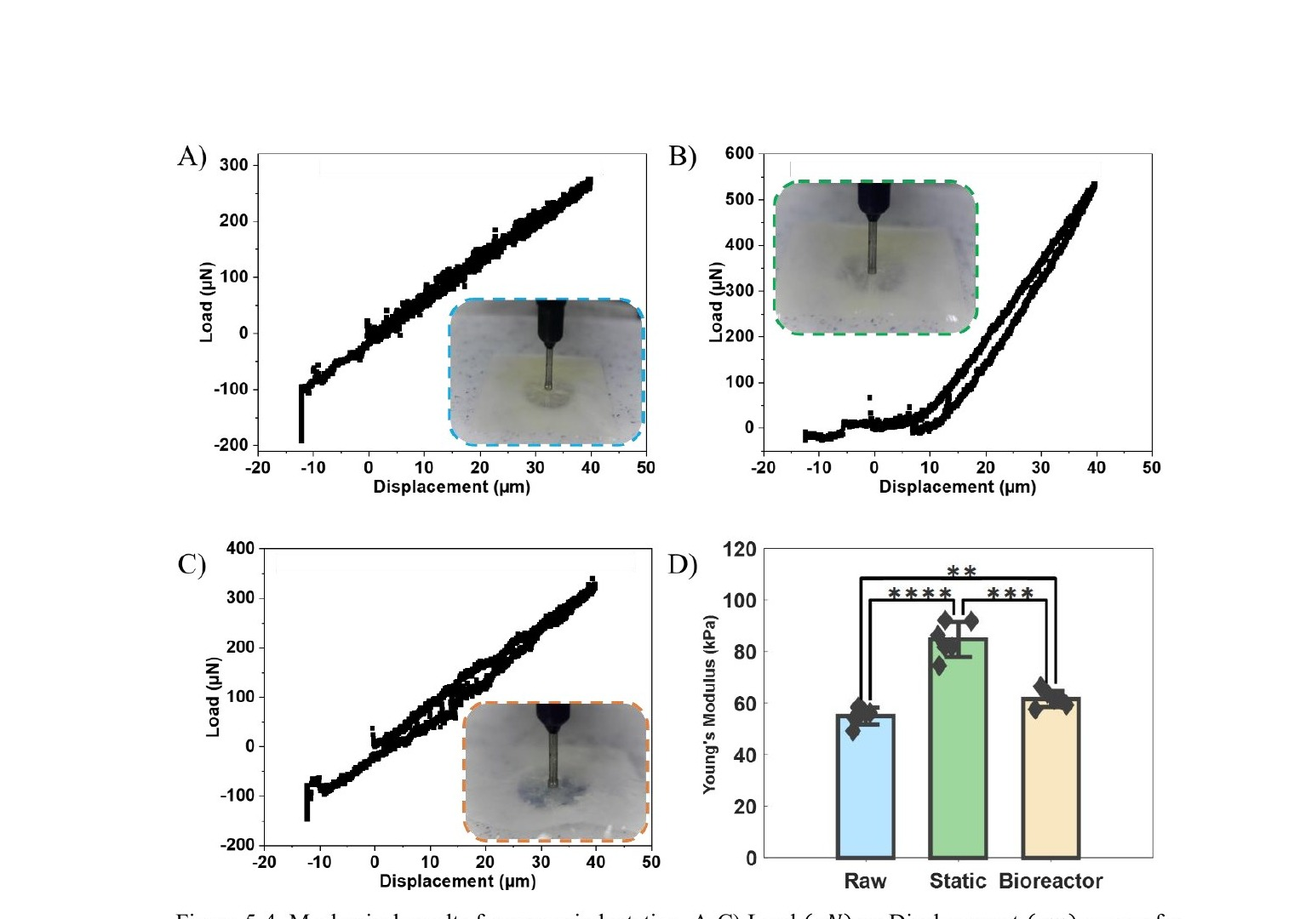
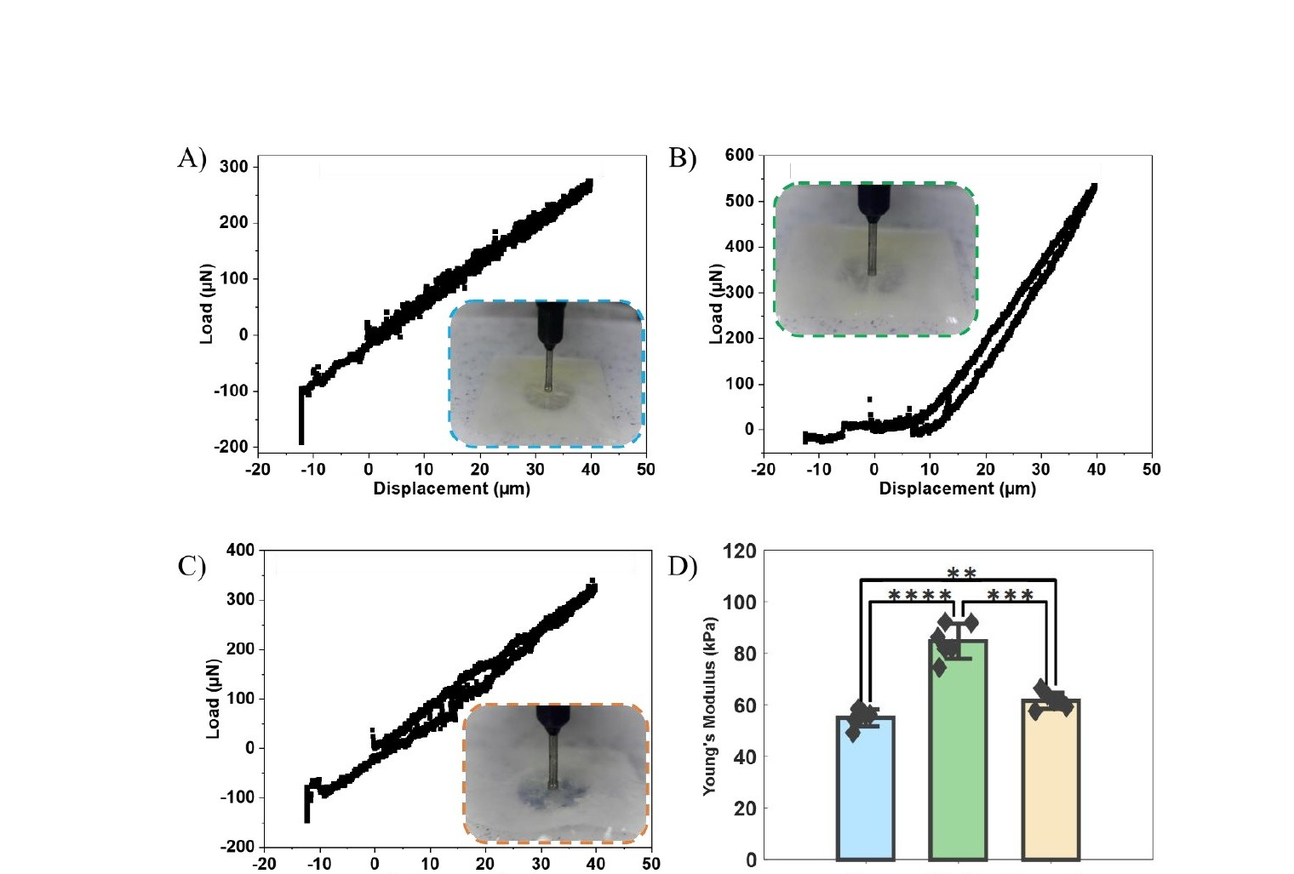
Dissertation: precise figure recrop + equations section + KaTeX
FIGURE CROPS — all 16 figures recropped with exact pixel boundaries:
  fig2_1: right-column inline only (450,428,1090,870) — body text excluded
  fig2_2: stops at row 748 before caption whitespace
  fig2_3: stops at row 578 before caption
  fig4_1: stops at row 1022 before caption
  fig4_3: stops at row 1272 before caption text (no longer included in img)
  fig5_2: starts at row 138 (eliminates top whitespace), stops at row 1018
  fig5_3: stops at row 1012 before caption
  fig5_4: stops at row 1075 before caption
  fig6_1: stops at row 950 before caption (no longer included in img)
  fig6_2: stops at row 1248 before caption (no longer included in img)
  fig7_1: starts at row 188 (after body text), stops at row 1172 before caption
  fig7_2: stops at row 1748 before caption
  fig7_3: stops at row 1658 before caption and body text
  fig7_4: stops at row 1650 before caption (no longer in img)
  fig7_5: stops at row 1992 before caption and body text
  fig7_6: stops at row 1048 before caption and body text

HTML OVERHAUL:
  Stripped all 16 existing fig-row blocks, then re-injected fresh ones
  at correct positions with matching captions. Eliminates duplicate
  figures (5-1/5-2/5-3/6-1/6-2) that appeared at page bottom from
  previous failed insertion attempts.

NEW: Equations section (id='equations') with KaTeX rendering:
  - WSS: τ_w = μ(γ̇)·du/dy
  - TAWSS: (1/T)∫|τ_w|dt
  - OSI: 0.5·(1 − |∫τdt| / ∫|τ|dt)
[…]

diff --git a/dissertation.html b/dissertation.html
@@ -184,6 +184,10 @@
  .chapters-nav { grid-template-columns: 1fr 1fr; }
  }
  </style>
+  <link rel="stylesheet" href="https://cdnjs.cloudflare.com/ajax/libs/KaTeX/0.16.9/katex.min.css">
+  <script defer src="https://cdnjs.cloudflare.com/ajax/libs/KaTeX/0.16.9/katex.min.js"></script>
+  <script defer src="https://cdnjs.cloudflare.com/ajax/libs/KaTeX/0.16.9/contrib/auto-render.min.js"
+    onload="renderMathInElement(document.body,{delimiters:[{left:'$$',right:'$$',display:true},{left:'$',right:'$',display:false}]})"></script>
 </head>
 <body>
 
@@ -301,24 +305,25 @@
  CAVD affects <strong>12.6 million people globally</strong> (2017) and prevalence is expected to double over the next 50 years. No pharmacological treatment exists — the only definitive therapy is <strong>surgical aortic valve replacement (SAVR)</strong> or, increasingly, <strong>transcatheter AV replacement (TAVR)</strong>. TAVR has surpassed SAVR as the preferred approach since it is minimally invasive, requires no cardiopulmonary bypass, and patients are often discharged the same day. However, both approaches intervene only after disease has progressed to a symptomatic, surgically operable stage.
  </p>
 
+
     <div class="fig-row cols-2">
       <div class="fig-item">
-        <img src="src/Dissertation/fig2_1_circulation.jpg" alt="Human blood circulation — systemic and pulmonary circuits" loading="lazy">
-        <div class="fig-caption"><strong>Figure 2-1.</strong> Human blood circulation diagram showing the heart and both the systemic and pulmonary circuits. The aortic valve is located at the exit of the left ventricle, controlling outflow into the aorta.</div>
+        <img src="src/Dissertation/fig2_1_circulation.jpg" alt="Fig 2-1: Human blood circulation" loading="lazy">
+        <div class="fig-caption"><strong>Figure 2-1.</strong> Human blood circulation showing the heart and the systemic and pulmonary circuits. The aortic valve sits at the exit of the left ventricle, controlling outflow into the aorta.</div>
       </div>
       <div class="fig-item">
-        <img src="src/Dissertation/fig2_2_aortic_valve.jpg" alt="Aortic valve anatomy — cut-open view" loading="lazy">
-        <div class="fig-caption"><strong>Figure 2-2.</strong> Cut-open view of the aortic and mitral valve leaflets, showing the right coronary (R), left coronary (L), and non-coronary (N) cusps, along with the coronary outflow locations and fibrous trigones.</div>
-      </div>
-    </div>
-    <div class="fig-row cols-1">
-      <div class="fig-item">
-        <img src="src/Dissertation/fig2_3_leaflet_layers.jpg" alt="Aortic valve leaflet tri-layer ECM cross-section" loading="lazy">
-        <div class="fig-caption"><strong>Figure 2-3.</strong> Cross-section of a human aortic valve leaflet showing the tri-layer extracellular matrix (ECM): the <em>ventricularis</em> (elastin-rich, flow-facing), the <em>spongiosa</em> (proteoglycan-rich core), and the <em>fibrosa</em> (collagen-rich, pressure-bearing). Valve interstitial cells (VICs) and endothelial cells (VECs) populate each layer and are the primary cellular mediators of calcification.</div>
+        <img src="src/Dissertation/fig2_2_aortic_valve.jpg" alt="Fig 2-2: Aortic valve cut-open anatomy" loading="lazy">
+        <div class="fig-caption"><strong>Figure 2-2.</strong> Cut-open view of the aortic and mitral valve leaflets showing the right coronary (R), left coronary (L), and non-coronary (N) cusps and the coronary outflow locations.</div>
       </div>
     </div>
 
-    <div class="findings">
+    <div class="fig-row cols-1">
+      <div class="fig-item">
+        <img src="src/Dissertation/fig2_3_leaflet_layers.jpg" alt="Fig 2-3: Leaflet tri-layer ECM" loading="lazy">
+        <div class="fig-caption"><strong>Figure 2-3.</strong> Cross-section of a human AV leaflet showing the tri-layer ECM: the <em>ventricularis</em> (elastin-rich, flow-facing), the <em>spongiosa</em> (proteoglycan core), and the <em>fibrosa</em> (collagen-rich, pressure-bearing side). Valve interstitial cells (VICs) and endothelial cells (VECs) populate each layer and are the primary mediators of calcification.</div>
+      </div>
+    </div>
+<div class="findings">
  <div class="finding-card">
  
  <div class="finding-label">The Clinical Problem</div>
@@ -388,21 +393,7 @@
  </div>
  </div>
 
- 
-    <div class="fig-row cols-1">
-      <div class="fig-item">
-        <img src="src/Dissertation/fig4_1_cfd_model.jpg" alt="Figure 4-1: CFD model preparation" loading="lazy">
-        <div class="fig-caption"><strong>Figure 4-1.</strong> CFD model preparation. (a–c) CT-reconstructed severely calcified human aortic valve in diastolic, early-systolic, and peak-systolic configurations. (d) Inlet velocity profile boundary condition. (e) Non-Newtonian viscosity model fittings — Carreau (R²=0.9954) and Quemada (R²=0.9931) models fitted to experimental blood rheology data.</div>
-      </div>
-    </div>
-    <div class="fig-row cols-1">
-      <div class="fig-item">
-        <img src="src/Dissertation/fig4_3_wss_comparison.jpg" alt="Figure 4-3: WSS distribution comparison — Newtonian vs non-Newtonian" loading="lazy">
-        <div class="fig-caption"><strong>Figure 4-3.</strong> Fibrosa-side quasi-static wall shear stress (WSS) for each valve configuration — closed (A), partially open (B), and fully open (C) — comparing Newtonian (i), Carreau (ii), and Quemada (iii) models. Crevice regions around calcific nodules show substantially higher WSS under non-Newtonian models, where increased viscosity at low shear rates amplifies the predicted stress.</div>
-      </div>
-    </div>
-
-    <div class="pub-card">
+<div class="pub-card">
  <div class="pub-num">1</div>
  <div class="pub-body">
  <div class="pub-title">Mirza A*, Ramaswamy S. Importance of Non-Newtonian Computational Fluid Modeling on Severely Calcified Aortic Valve Geometries.</div>
@@ -463,29 +454,32 @@
  </div>
 
  <p class="prose">
- The Alizarin Red staining confirmed calcification in Groups B and C but not Group A. The Vivitro Pulse Duplicator system (70 bpm, 100 mmHg mean arterial pressure, 35% systolic fraction) verified that all valves functioned similarly at the macro hydrodynamic level. FSI simulations used a three-parameter incompressible Mooney-Rivlin hyperelastic model for valve leaflets and a variational multiscale turbulence model for the saline fluid domain (Re ≈ 9,800).
+ 
+    <div class="fig-row cols-1">
+      <div class="fig-item">
+        <img src="src/Dissertation/fig5_2_computational_model.jpg" alt="Fig 5-2: PSIS computational model" loading="lazy">
+        <div class="fig-caption"><strong>Figure 5-2.</strong> Computational model. (A) Aortic conduit and PSIS scaffold with dimensions scaled to valve diameter D. (B) Inlet pressure differential BCs for Raw (red dashed), Static (green dashed), and Bioreactor (blue solid) groups. (C) Cross-sectional mesh view showing boundary layers inflated along the scaffold.</div>
+      </div>
+    </div>
+
+    <div class="fig-row cols-2">
+      <div class="fig-item">
+        <img src="src/Dissertation/fig5_3_hydrodynamics.jpg" alt="Fig 5-3: Hydrodynamic testing results" loading="lazy">
+        <div class="fig-caption"><strong>Figure 5-3.</strong> Vivitro Pulse Duplicator hydrodynamic results. Bar graphs of RF, &Delta;P, Q<sub>rms</sub>, and EOA show no statistically significant differences between Raw, Static, and Bioreactor groups (n.s. = p&gt;0.05) — confirming early-stage CAVD is hemodynamically silent at the macro scale.</div>
+      </div>
+      <div class="fig-item">
+        <img src="src/Dissertation/fig5_4_nanoindentation.jpg" alt="Fig 5-4: Nanoindentation results" loading="lazy">
+        <div class="fig-caption"><strong>Figure 5-4.</strong> Nanoindentation results. (A–C) Load vs. displacement curves for Raw, Static, and Bioreactor PSIS groups with indenter photos inset. (D) Young's Modulus — both calcified groups are significantly stiffer than Raw (** p&lt;0.01, *** p&lt;0.001, **** p&lt;0.0001), confirming a mechanical biomarker hydrodynamics cannot detect.</div>
+      </div>
+    </div>
+The Alizarin Red staining confirmed calcification in Groups B and C but not Group A. The Vivitro Pulse Duplicator system (70 bpm, 100 mmHg mean arterial pressure, 35% systolic fraction) verified that all valves functioned similarly at the macro hydrodynamic level. FSI simulations used a three-parameter incompressible Mooney-Rivlin hyperelastic model for valve leaflets and a variational multiscale turbulence model for the saline fluid domain (Re ≈ 9,800).
  </p>
  </div>
 
  <!-- ══════════════════════════════════════════════════════
  CHAPTER 6
  ══════════════════════════════════════════════════════ -->
-    <div class="fig-row cols-1">
-      <div class="fig-item">
-        <img src="src/Dissertation/fig5_2_computational_model.jpg" alt="Figure 5-2: Computational model" loading="lazy">
-        <div class="fig-caption"><strong>Figure 5-2.</strong> Computational model information. (A) Aortic valve conduit and scaffold geometry with dimensions scaled to valve diameter D. (B) Inlet pressure differential boundary conditions for Raw (red), Static (green), and Bioreactor (blue) groups across a cardiac cycle. (C) Cross-sectional view of the finalized volume mesh showing boundary layers inflated along the scaffold surface.</div>
-      </div>
-    </div>
-    <div class="fig-row cols-2">
-      <div class="fig-item">
-        <img src="src/Dissertation/fig5_3_hydrodynamics.jpg" alt="Figure 5-3: Hydrodynamic results from pulse duplicator" loading="lazy">
-        <div class="fig-caption"><strong>Figure 5-3.</strong> Hydrodynamic results from the Vivitro Pulse Duplicator. Bar graphs of RF, &Delta;P, Q<sub>rms</sub>, and EOA show no statistically significant differences between Raw, Static, and Bioreactor groups — confirming that early-stage CAVD is hemodynamically silent at the macro level. n.s. = p > 0.05.</div>
-      </div>
-      <div class="fig-item">
-        <img src="src/Dissertation/fig5_4_nanoindentation.jpg" alt="Figure 5-4: Nanoindentation mechanical results" loading="lazy">
-        <div class="fig-caption"><strong>Figure 5-4.</strong> Nanoindentation results. (A–C) Load vs. displacement curves for Raw, Static, and Bioreactor PSIS groups. (D) Young's Modulus comparison — both calcified groups show significantly elevated stiffness versus the Raw control (** p&lt;0.01, *** p&lt;0.001, **** p&lt;0.0001), confirming a measurable mechanical signal of early CAVD that hydrodynamics cannot detect.</div>
-      </div>
-    </div>
+
 <div class="section" id="ch6">
  <div class="section-header">
  <span class="section-num">CH. 6</span>
@@ -518,25 +512,29 @@
  <div class="finding-text">This computational finding offers a mechanistic explanation for why mouse CAVD models cannot be assumed to replicate human calcification patterns — and suggests controlling coronary ostium geometry when selecting or engineering mouse models for valve research.</div>
  </div>
  </div>
- 
+
+</div>
+
+ <!-- ══════════════════════════════════════════════════════
+ CHAPTER 7
+ ══════════════════════════════════════════════════════ -->
     <div class="fig-row cols-1">
       <div class="fig-item">
-        <img src="src/Dissertation/fig6_1_mouse_valve.jpg" alt="Figure 6-1: Mouse aortic valve CAD model, BCs, and mesh" loading="lazy">
-        <div class="fig-caption"><strong>Figure 6-1.</strong> Mouse aortic valve model components. (A) Parametrized CAD model showing anatomical features and the right coronary ostium height (h<sub>RightCO</sub>) variable. (B) Inlet velocity waveform from pulsed-wave Doppler recordings — raw data (circles), spline fit (gray), and constant diastolic average (red). (C) Murine-specific Carreau-Yasuda viscosity fit. (D) Polyhedral mesh with boundary layers inflated around the coaptation point.</div>
+        <img src="src/Dissertation/fig6_1_mouse_valve.jpg" alt="Fig 6-1: Mouse AV CAD model" loading="lazy">
+        <div class="fig-caption"><strong>Figure 6-1.</strong> Mouse aortic valve model. (A) Parametrized CAD showing biological components and geometric parameters including h<sub>RightCO</sub>. (B) Inlet diastolic velocity waveform from pulsed-wave Doppler — raw data (circles), spline fit (gray), constant average (red). (C) Murine Carreau-Yasuda viscosity fit. (D) Polyhedral mesh with boundary layers at the coaptation point.</div>
       </div>
     </div>
+
     <div class="fig-row cols-1">
       <div class="fig-item">
-        <img src="src/Dissertation/fig6_2_mouse_wss.jpg" alt="Figure 6-2: Right coronary ostium height variation — shear rate and WSS" loading="lazy">
-        <div class="fig-caption"><strong>Figure 6-2.</strong> Right coronary ostium variation wall metrics. (A) Valve geometries across five h<sub>RightCO</sub> values (0.3130–1.2870 mm). (B) Fibrosa-side shear rate distributions. (C) Fibrosa-side wall shear stress distributions. As h<sub>RightCO</sub> increases past the coaptation point, the RCC shear distribution converges toward the low-shear, oscillatory NCC pattern — mechanistically explaining the reversed cusp calcification pattern in mouse CAVD models.</div>
+        <img src="src/Dissertation/fig6_2_mouse_wss.jpg" alt="Fig 6-2: RCO height variation WSS" loading="lazy">
+        <div class="fig-caption"><strong>Figure 6-2.</strong> Right coronary ostium height variation wall metrics. (A) Valve geometries for five h<sub>RightCO</sub> values (0.313–1.287 mm) with green/blue spheres marking right/left ostia. (B) Fibrosa-side shear rate distributions. (C) Fibrosa-side WSS distributions. As h<sub>RightCO</sub> increases past the coaptation point, RCC shear converges toward the low-shear NCC pattern — mechanistically explaining the reversed calcification pattern in mouse CAVD models.</div>
       </div>
     </div>
 
   </div>
 
- <!-- ══════════════════════════════════════════════════════
- CHAPTER 7
- ══════════════════════════════════════════════════════ --><div class="section" id="ch7">
+  <div class="section" id="ch7">
  <div class="section-header">
  <span class="section-num">CH. 7</span>
  <h2 class="section-title">Parametric Pipeline: Valve Size × CAVD Severity</h2>
@@ -572,29 +570,32 @@
 
     <div class="fig-row cols-2">
       <div class="fig-item">
-        <img src="src/Dissertation/fig7_1_calc_grades_matrix.jpg" alt="Figure 7-1: CAVD grades × valve sizes matrix" loading="lazy">
-        <div class="fig-caption"><strong>Figure 7-1.</strong> Short-axis view from the aortic side depicting CAVD intensities across multiple valve sizes. Rows: Grade 1 (None), Grade 3 (Mild), Grade 5 (Medium), Grade 6 (Severe). Columns: 22–30 mm annular diameters. N, R, L = non-coronary, right coronary, left coronary cusps.</div>
+        <img src="src/Dissertation/fig7_1_calc_grades_matrix.jpg" alt="Fig 7-1: CAVD grades × valve sizes" loading="lazy">
+        <div class="fig-caption"><strong>Figure 7-1.</strong> Short-axis aortic view of CAVD intensities across valve sizes and grades. Rows: Grade 1 (None), 3 (Mild), 5 (Medium), 6 (Severe). Columns: 22–30 mm annular diameters. Yellow deposits show calcific nodules generated by the Python/Blender calcification algorithm.</div>
       </div>
       <div class="fig-item">
-        <img src="src/Dissertation/fig7_2_pressure_bcs.jpg" alt="Figure 7-2: Inlet pressure BCs per CAVD grade" loading="lazy">
-        <div class="fig-caption"><strong>Figure 7-2.</strong> Inlet differential pressure boundary conditions for each CAVD grade across one cardiac cycle. Grade 6 peaks at 100 mmHg; Grade 1 peaks at ~7 mmHg — consistent with clinical AS grading thresholds. Systolic and diastolic peaks are marked with vertical lines (t = 0.10 s and t = 0.65 s).</div>
-      </div>
-    </div>
-    <div class="fig-row cols-1">
-      <div class="fig-item">
-        <img src="src/Dissertation/fig7_3_streamlines.jpg" alt="Figure 7-3: Velocity streamlines" loading="lazy">
-        <div class="fig-caption"><strong>Figure 7-3.</strong> Velocity streamlines at peak systole (t<sub>s</sub> = 0.10 s) and peak diastole (t<sub>D</sub> = 0.65 s) across all CAVD grades and valve sizes. Grade 1 shows symmetric outflow. Grades 3 and 5 produce asymmetric jets. Grade 6 shows the most turbulent flow with the largest reverse streamlines during diastole.</div>
+        <img src="src/Dissertation/fig7_2_pressure_bcs.jpg" alt="Fig 7-2: Inlet pressure BCs per grade" loading="lazy">
+        <div class="fig-caption"><strong>Figure 7-2.</strong> Inlet differential pressure boundary conditions for each CAVD grade across one cardiac cycle. Higher grades require greater driving pressures — consistent with clinical echocardiographic thresholds for AS severity. Vertical lines mark t<sub>s</sub>=0.10 s and t<sub>D</sub>=0.65 s.</div>
       </div>
     </div>
+
     <div class="fig-row cols-1">
       <div class="fig-item">
-        <img src="src/Dissertation/fig7_4_vortex_formations.jpg" alt="Figure 7-4: Q-criterion vortex formations" loading="lazy">
-        <div class="fig-caption"><strong>Figure 7-4.</strong> Q-criterion vortex formations at peak systole across all grades and sizes. Grade 1 shows a symmetric ring vortex. Higher grades produce larger, more disturbed ring structures extending past the sinotubular junction. Asymmetric grades (3, 5) generate eccentric wakes linked to downstream aortic wall stress.</div>
+        <img src="src/Dissertation/fig7_3_streamlines.jpg" alt="Fig 7-3: Velocity streamlines" loading="lazy">
+        <div class="fig-caption"><strong>Figure 7-3.</strong> Velocity streamlines at peak systole (t<sub>s</sub>=0.10 s) and peak diastole (t<sub>D</sub>=0.65 s) across all CAVD grades and valve sizes. Grade 1 shows symmetric outflow; Grades 3 and 5 produce asymmetric jets; Grade 6 shows the most turbulent flow with largest reverse streamlines during diastole.</div>
+      </div>
+    </div>
+
+    <div class="fig-row cols-1">
+      <div class="fig-item">
+        <img src="src/Dissertation/fig7_4_vortex_formations.jpg" alt="Fig 7-4: Q-criterion vortices" loading="lazy">
+        <div class="fig-caption"><strong>Figure 7-4.</strong> Q-criterion vortex formations at peak systole (threshold=10,000 s⁻²). Grade 1 shows a symmetric ring vortex; higher grades produce progressively larger and more disturbed ring structures extending past the sinotubular junction.</div>
       </div>
     </div>
 
 
- <div class="callout">
+
+<div class="callout">
  <strong>Key Finding — Hemodynamic gradient:</strong> TAWSS increased and OSI decreased monotonically with CAVD grade across <em>all</em> valve sizes. These metrics were trackable across the full severity spectrum, from pre-symptomatic (Grade 1–2) to severe (Grade 5–6), providing a computational framework for CAVD staging.
  </div>
  <div class="callout">
@@ -606,20 +607,20 @@
 
     <div class="fig-row cols-1">
       <div class="fig-item">
-        <img src="src/Dissertation/fig7_5_hemodynamic_heatmap.jpg" alt="Figure 7-5: TAWSS and OSI heatmaps" loading="lazy">
-        <div class="fig-caption"><strong>Figure 7-5.</strong> Hemodynamic outcome distributions. (A) TAWSS (dynes/cm²) increases with CAVD grade and decreases with valve size. (B) OSI decreases with grade and increases with size. Together, TAWSS and OSI provide a trackable hemodynamic signature of CAVD severity across all clinically relevant valve sizes.</div>
+        <img src="src/Dissertation/fig7_5_hemodynamic_heatmap.jpg" alt="Fig 7-5: TAWSS and OSI heatmaps" loading="lazy">
+        <div class="fig-caption"><strong>Figure 7-5.</strong> Hemodynamic outcome distributions. (A) TAWSS (dynes/cm²) — increases with CAVD grade, decreases with valve size. (B) OSI — decreases with grade, increases with valve size. Together these provide a trackable hemodynamic signature of CAVD severity across all clinically relevant valve sizes.</div>
       </div>
     </div>
+
     <div class="fig-row cols-1">
       <div class="fig-item">
-        <img src="src/Dissertation/fig7_6_hydrodynamic_heatmap.jpg" alt="Figure 7-6: Hydrodynamic outcomes heatmaps" loading="lazy">
-        <div class="fig-caption"><strong>Figure 7-6.</strong> Hydrodynamic outcome distributions. (A) Pressure gradient &Delta;P. (B) Peak aortic jet velocity V<sub>Max</sub>. (C) Regurgitant fraction RF%. (D) Effective orifice area EOA. Results match established clinical echocardiographic thresholds for AS severity grading, validating the computational model.</div>
+        <img src="src/Dissertation/fig7_6_hydrodynamic_heatmap.jpg" alt="Fig 7-6: Hydrodynamic outcomes heatmaps" loading="lazy">
+        <div class="fig-caption"><strong>Figure 7-6.</strong> Hydrodynamic outcome distributions. (A) Pressure gradient &Delta;P (mmHg). (B) Peak aortic jet velocity V<sub>Max</sub> (m/s). (C) Regurgitant fraction RF%. (D) Effective orifice area EOA (cm²). Results are consistent with established clinical AS severity thresholds, validating the parametric model.</div>
       </div>
     </div>
 
 
-
- <div class="pub-card">
+<div class="pub-card">
  <div class="pub-num">2</div>
  <div class="pub-body">
  <div class="pub-title">Mirza A*, Hsu C-PD, Rodriguez A, Alvarez P, Lou L, Sey M, Agarwal A, Hutcheson JD*, Ramaswamy S. Computational Model for Early-Stage Aortic Valve Calcification Shows Hemodynamic Biomarkers.</div>
@@ -632,7 +633,89 @@
  <!-- ══════════════════════════════════════════════════════
  OVERALL CONCLUSIONS
  ══════════════════════════════════════════════════════ -->
- <div class="section" id="conclusions">
+ 
+  <!-- ══════════════════════════════════════════════════════
+       KEY EQUATIONS
+  ══════════════════════════════════════════════════════ -->
+  <div class="section" id="equations">
+    <div class="section-header">
+      <span class="section-num">EQ.</span>
+      <h2 class="section-title">Key Equations</h2>
+      <span class="section-tag">Mathematical Framework</span>
+    </div>
+
+    <p class="prose">The dissertation draws on fluid mechanics, structural mechanics, and hemodynamic analysis. The central equations spanning all four research aims are compiled here.</p>
+
+    <div class="methods-box">
+      <div class="methods-title">Wall Shear Stress &amp; Hemodynamic Biomarkers</div>
+    </div>
+    <div class="callout">
+      <div class="eq-label">Wall Shear Stress (WSS)</div>
+      <div class="eq-block">$$\overrightarrow{\tau_w} = \mu(\dot{\gamma})\,\frac{d\overrightarrow{u_f}}{dy}$$</div>
+      <p style="font-size:.85em;color:var(--muted);margin-top:8px">where $\mu(\dot{\gamma})$ is the fluid dynamic viscosity (possibly shear-rate dependent), $\overrightarrow{u_f}$ is the fluid velocity vector, and $y$ is the wall-normal coordinate.</p>
+    </div>
+    <div class="callout">
+      <div class="eq-label">Time-Averaged WSS (TAWSS)</div>
+      <div class="eq-block">$$\text{TAWSS} = \frac{1}{T}\int_0^T |\overrightarrow{\tau_w}|\,dt$$</div>
+      <p style="font-size:.85em;color:var(--muted);margin-top:8px">Averaged over one cardiac cycle of period $T$. Elevated TAWSS correlates with the onset of calcific deposit formation and is the primary hemodynamic biomarker proposed in this dissertation.</p>
+    </div>
+    <div class="callout">
+      <div class="eq-label">Oscillatory Shear Index (OSI)</div>
+      <div class="eq-block">$$\text{OSI} = \frac{1}{2}\left(1 - \frac{\left|\int_0^T \overrightarrow{\tau_w}\,dt\right|}{\int_0^T |\overrightarrow{\tau_w}|\,dt}\right)$$</div>
+      <p style="font-size:.85em;color:var(--muted);margin-top:8px">OSI ranges from 0 (purely unidirectional flow) to 0.5 (fully oscillatory, zero net direction). High OSI at the leaflet fibrosa is associated with endothelial dysfunction and early-stage calcification.</p>
+    </div>
+
+    <div class="methods-box" style="margin-top:20px">
+      <div class="methods-title">Non-Newtonian Blood Viscosity Models (Chapter 4)</div>
+    </div>
+    <div class="callout">
+      <div class="eq-label">Carreau-Yasuda Model</div>
+      <div class="eq-block">$$\mu(\dot{\gamma}) = \mu_\infty + (\mu_0 - \mu_\infty)\left[1 + (\lambda\dot{\gamma})^a\right]^{(n-1)/a}$$</div>
+      <p style="font-size:.85em;color:var(--muted);margin-top:8px">Fitted parameters: $\mu_\infty = 2.885$ cP, $\mu_0 = 160$ cP, $\lambda = 62.32$ s, $a = 75.47$, $n = 0.4842$. Captures shear-thinning behavior; blood viscosity rises substantially above the Newtonian constant at shear rates $\dot{\gamma} &lt; 100\,\text{s}^{-1}$ — conditions found in calcific crevice regions.</p>
+    </div>
+
+    <div class="methods-box" style="margin-top:20px">
+      <div class="methods-title">Fluid Mechanics — Governing Equations</div>
+    </div>
+    <div class="callout">
+      <div class="eq-label">Navier-Stokes Momentum (ALE formulation)</div>
+      <div class="eq-block">$$\rho_f\left(\frac{\partial\overrightarrow{u_f}}{\partial t} + (\overrightarrow{u_f} - m_f)\cdot\nabla\overrightarrow{u_f}\right) = -\nabla P + \mu\nabla^2\overrightarrow{u_f} + \rho_f\vec{g}$$</div>
+      <p style="font-size:.85em;color:var(--muted);margin-top:8px">Arbitrary Lagrangian-Eulerian (ALE) form used in FSI simulations. $m_f$ is the mesh velocity; the ALE term $(\overrightarrow{u_f} - m_f)$ accounts for mesh motion relative to the fluid material.</p>
+    </div>
+    <div class="callout">
+      <div class="eq-label">Incompressibility (Continuity)</div>
+      <div class="eq-block">$$\nabla \cdot \overrightarrow{u_f} = 0$$</div>
+    </div>
+
+    <div class="methods-box" style="margin-top:20px">
+      <div class="methods-title">Structural Mechanics — Leaflet Material Models</div>
+    </div>
+    <div class="callout">
+      <div class="eq-label">Mooney-Rivlin (Chapter 4 — calcified leaflets)</div>
+      <div class="eq-block">$$W(\bar{I}_1, \bar{I}_2) = C_{10}(\bar{I}_1 - 3) + C_{01}(\bar{I}_2 - 3) + C_{11}(\bar{I}_1 - 3)(\bar{I}_2 - 3)$$</div>
+      <p style="font-size:.85em;color:var(--muted);margin-top:8px">Three-parameter incompressible hyperelastic model for aortic leaflets. $\bar{I}_1, \bar{I}_2$ are the principal invariants of the Cauchy-Green deformation tensor. Fitted values: $C_{10} = 32.823$ kPa, $C_{01} = 2.955$ kPa, $C_{11} = 585.79$ kPa.</p>
+    </div>
+    <div class="callout">
+      <div class="eq-label">Ogden Model (Chapter 7 — parametric FSI)</div>
+      <div class="eq-block">$$W(\lambda_1,\lambda_2,\lambda_3) = \frac{\mu}{\alpha}\left(\lambda_1^\alpha + \lambda_2^\alpha + \lambda_3^\alpha - 3\right) + \frac{1}{2}K(J-1)^2$$</div>
+      <p style="font-size:.85em;color:var(--muted);margin-top:8px">First-order Ogden model used for porcine-equivalent aortic leaflets. $\lambda_i$ are principal stretches; $\mu = 75.310$ kPa, $\alpha = 12.275$, Poisson's ratio = 0.495.</p>
+    </div>
+
+    <div class="methods-box" style="margin-top:20px">
+      <div class="methods-title">Chapter 6 — Mouse Model Hemodynamics</div>
+    </div>
+    <div class="callout">
+      <div class="eq-label">Area-averaged Shear Rate (ASR)</div>
+      <div class="eq-block">$$\text{ASR} = \frac{1}{N}\oint \dot{\gamma}\,dS$$</div>
+    </div>
+    <div class="callout">
+      <div class="eq-label">Area-averaged Wall Shear Stress (AWSS)</div>
+      <div class="eq-block">$$\text{AWSS} = \frac{1}{N}\oint \mu\dot{\gamma}\,dS$$</div>
+      <p style="font-size:.85em;color:var(--muted);margin-top:8px">Surface-integrated metrics used to compare cusp-level hemodynamics as right coronary ostium height varies. A drop in ASR and AWSS on the RCC as $h_{\text{RightCO}}$ increases past the coaptation height explains the reversed calcification pattern.</p>
+    </div>
+  </div>
+
+<div class="section" id="conclusions">
  <div class="section-header">
  <span class="section-num">CH. 8</span>
  <h2 class="section-title">Overall Conclusions & Future Directions</h2>
@@ -677,33 +760,7 @@
  Advisor: Dr. Sharan Ramaswamy
  </div>
 
-    <div class="fig-row cols-2">
-      <div class="fig-item">
-        <img src="src/Dissertation/fig5_2_computational_model.jpg" alt="Figure 5-2: Computational model — aortic conduit, scaffold dimensions, pressure BCs, and mesh cross-section" loading="lazy">
-        <div class="fig-caption"><strong>Figure 5-1:</strong> PSIS bioscaffold valves sutured into tri-leaflet configuration. Left: raw PSIS control. Right: pro-calcific media conditioned groups (static and bioreactor). Alizarin Red staining confirmed calcium deposition in culture groups.</div>
-      </div>
-      <div class="fig-item">
-        <img src="src/Dissertation/fig5_3_hydrodynamics.jpg" alt="Figure 5-3: Hydrodynamic results — RF, ΔP, Qrms, and EOA bar graphs across Raw, Static, and Bioreactor groups" loading="lazy">
-        <div class="fig-caption"><strong>Figure 5-2:</strong> Vivitro Pulse Duplicator hydrodynamic results. No significant differences in &Delta;P, RF, Q<sub>rms</sub>, or EOA across groups — confirming that early-stage CAVD is hemodynamically silent at the macro level.</div>
-      </div>
-    </div>
-    <div class="fig-row cols-1">
-      <div class="fig-item">
-        <img src="src/Dissertation/fig5_4_nanoindentation.jpg" alt="Figure 5-4: Nanoindentation load-displacement curves and Young's modulus comparison — Raw vs Static vs Bioreactor" loading="lazy">
-        <div class="fig-caption"><strong>Figure 5-3:</strong> Young's modulus from nanoindentation. Both calcified groups show significantly higher stiffness (p &lt; 0.01) than the raw PSIS control — a measurable mechanical signal of early CAVD that hydrodynamics cannot detect. FSI-computed TAWSS increased 28% and OSI decreased correspondingly.</div>
-      </div>
-    </div>
 
-    <div class="fig-row cols-2">
-      <div class="fig-item">
-        <img src="src/Dissertation/fig6_1_mouse_valve.jpg" alt="Figure 6-1: Mouse aortic valve CAD model components, inlet waveform, viscosity fit, and mesh" loading="lazy">
-        <div class="fig-caption"><strong>Figure 6-1:</strong> Parametrized mouse aortic valve model in SolidWorks. Key variable: right coronary ostium height (R<sub>OH</sub>) relative to the leaflet coaptation point. Multiple R<sub>OH</sub> values were simulated to isolate hemodynamic effects on each cusp.</div>
-      </div>
-      <div class="fig-item">
-        <img src="src/Dissertation/fig6_2_mouse_wss.jpg" alt="Figure 6-2: Right coronary ostium height variation — shear rate and WSS distributions across 5 configurations" loading="lazy">
-        <div class="fig-caption"><strong>Figure 6-2:</strong> CFD hemodynamic results across mouse valve configurations. When R<sub>OH</sub> exceeds the coaptation point, the RCC shear distribution converges toward the low-shear, oscillatory NCC pattern — mechanistically explaining the reversed cusp calcification observed in mouse CAVD studies.</div>
-      </div>
-    </div>
 </div>
 
 <script>
@@ -742,3 +799,17 @@
 </script>
 </body>
 </html>
+    <div class="fig-row cols-1">
+      <div class="fig-item">
+        <img src="src/Dissertation/fig4_1_cfd_model.jpg" alt="Fig 4-1: CFD model preparation" loading="lazy">
+        <div class="fig-caption"><strong>Figure 4-1.</strong> CFD model preparation. (a–c) CT-reconstructed severely calcified valve in diastolic, early-systolic, and peak-systolic configurations. (d) Inlet velocity profile. (e) Non-Newtonian viscosity model fittings — Carreau (R²=0.9954) and Quemada (R²=0.9931) fitted to experimental blood rheology data.</div>
+      </div>
+    </div>
+
+    <div class="fig-row cols-1">
+      <div class="fig-item">
+        <img src="src/Dissertation/fig4_3_wss_comparison.jpg" alt="Fig 4-3: WSS Newtonian vs non-Newtonian" loading="lazy">
+        <div class="fig-caption"><strong>Figure 4-3.</strong> Fibrosa-side quasi-static WSS for each configuration — closed (A), partially open (B), fully open (C) — comparing Newtonian (i), Carreau (ii), and Quemada (iii) models. Crevice regions around calcific nodules show substantially higher WSS under non-Newtonian models, where elevated viscosity at low shear rates amplifies predicted wall stress.</div>
+      </div>
+    </div>
+
